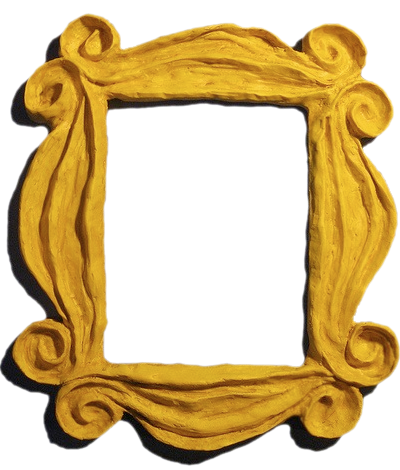
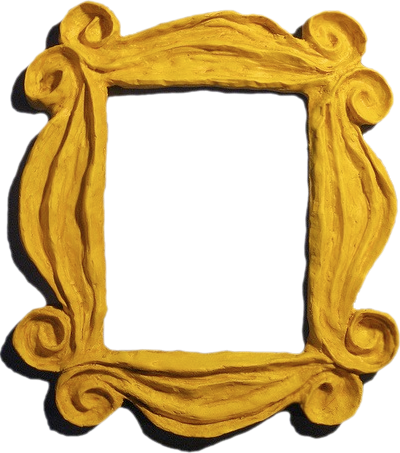
Remove frame picture

diff --git a/index.js b/index.js
@@ -34,17 +34,18 @@ function epItem(episode){
     */
    // divItem.style.borderStyle = 'dotted'
    // divItem.styleborderColor='black'
-    const blankDiv = document.createElement('div')
+   /* const blankDiv = document.createElement('div')
     blankDiv.style.position = 'relative'
     const framePic = document.createElement('img')
     framePic.src='frame.png'
     framePic.style.position='relative'
     framePic.style.width='20%'
     framePic.style.height='30%'
-    blankDiv.appendChild(framePic)
+    //framePic.style.zIndex='-1'
+  */  
 
     const item = document.createElement('li')
-    item.style.position-'absolute'
+    //item.style.position='absolute'
     //item.style.top = '0px'
    // item.style.left='0'
    // item.style.width='100%'
@@ -53,8 +54,11 @@ function epItem(episode){
     item.textContent = episode
     item.style.textAlign='center'
     item.style.wordWrap='break-word'
-    blankDiv.appendChild(item);
-    return blankDiv
+   // item.style.zIndex='-1'
+    //framePic.appendChild(item)
+    //blankDiv.appendChild(framePic)
+    //blankDiv.appendChild(item);
+    return item
 }
 
 

diff --git a/index.html b/index.html
@@ -9,15 +9,21 @@
     
 </head>
 <body>
+    
     <img src="friends.svg">
-    <h3>Let us know which is your favorite  <img src="friends.svg" id="smallFriends">  episode!</h3>
-    <form id="epForm">
-        <p>
-            <label for="episode"> Episode: </label>
-            <input type="text" name="episode" value="" autofocus><br>
-        </p>
-        <button type="submit" >Pivot!</button>
-    </form>
+    
+        
+            <h3>Let us know which is your favorite  <img src="friends.svg" id="smallFriends">  episode!</h3>
+           
+                    
+            <form id="epForm">
+                <p>
+                    <label for="episode"> Episode: </label>
+                    <input type="text" name="episode" value="" autofocus><br>
+                </p>
+                <button type="submit" >Pivot!</button>
+            </form>
+       
     <h2>The One Where...</h2>
    <!-- <footer><img src="friendsFinal.png"></footer>-->
    <div id="episodes"></div>

diff --git a/index.css b/index.css
@@ -6,6 +6,10 @@ body{
     background-color:#FAFAFA;
     /*:#82878A; */
 }
+#frame{
+  width:30%;
+  height:80%;
+}
 img {
     width: 50%;
     padding-top: 2%;
@@ -19,4 +23,10 @@ footer{
     bottom: 0;
     left:0;
     right:0;
+}
+#container{
+    position: relative;
+}
+#imgDiv {
+    position: relative;
 }
